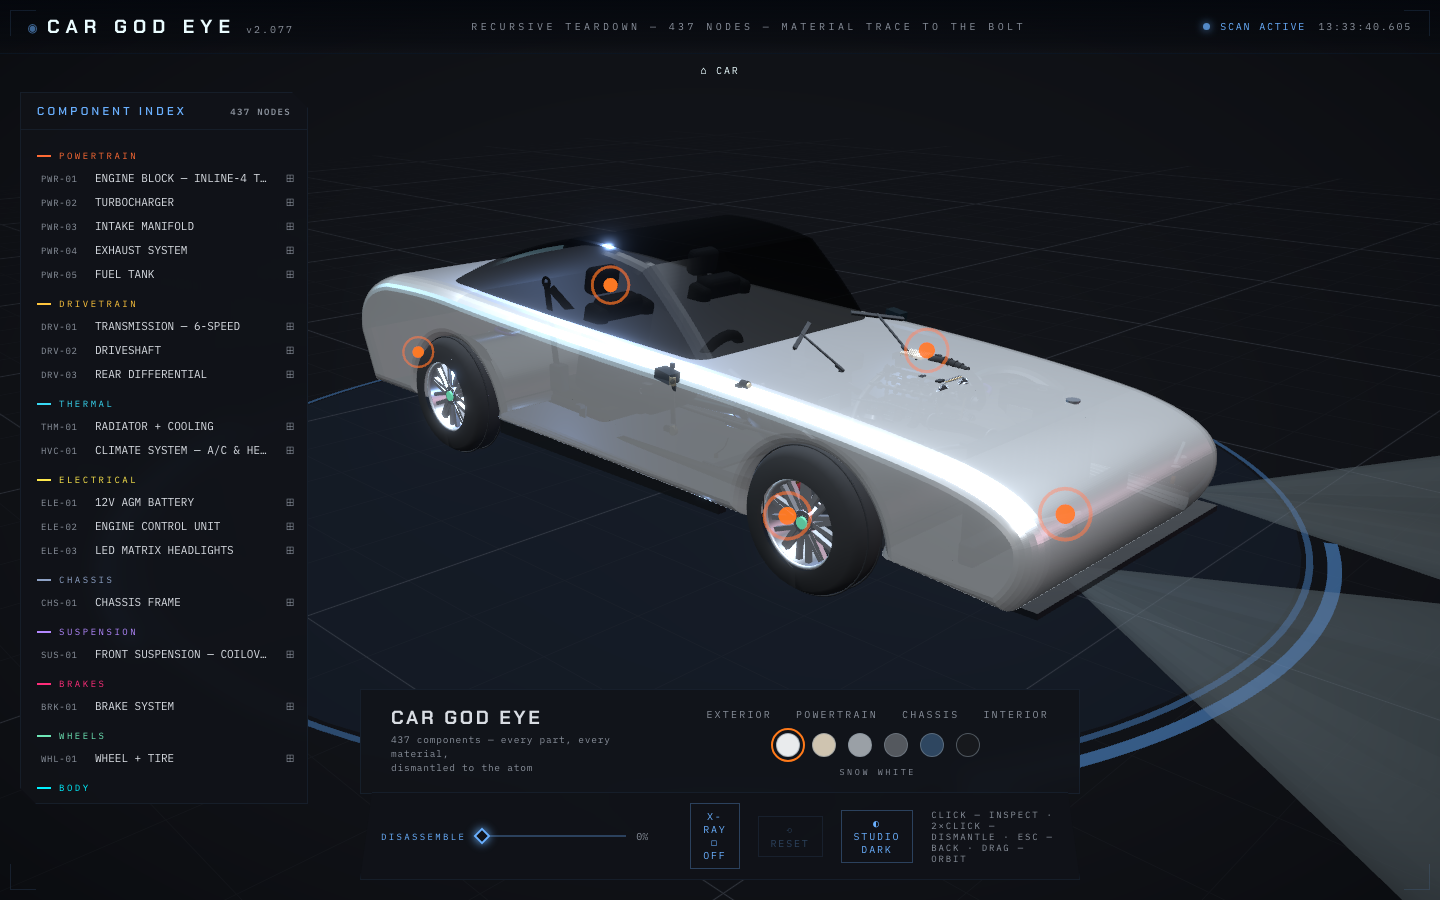
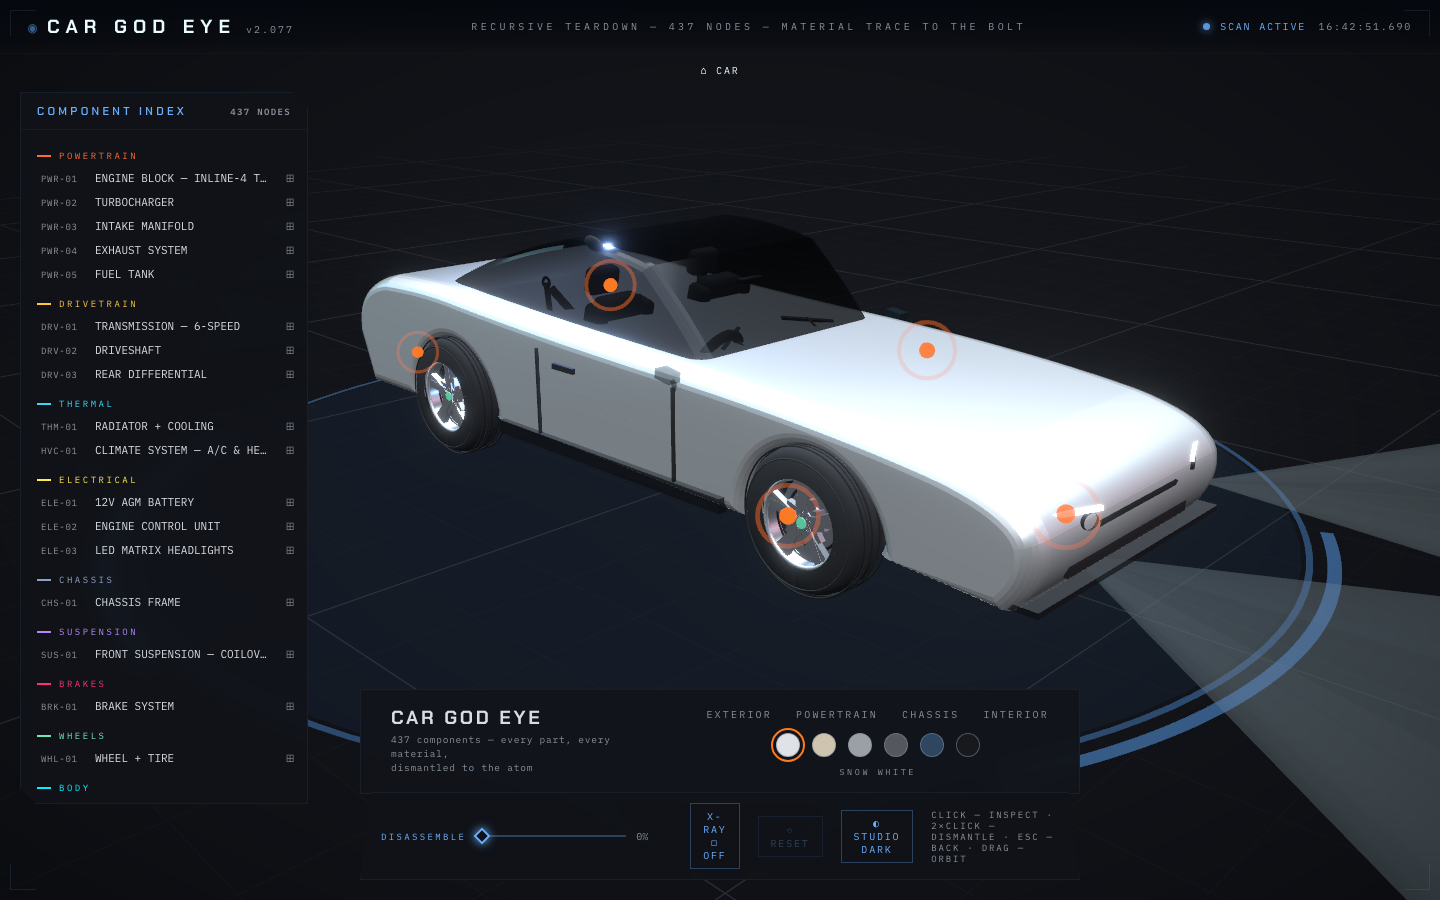
Detail pass, outside to inside: lamps, face, cabin, satin paint
- Headlights rebuilt as integrated lamps: flush smoked lens blade, glowing
  DRL signature, sunken twin projectors, amber chip — pushed proud of the
  nose skin (the extrude bevel had swallowed the old pods entirely)
- Cabin visible through the glass: dash + pad, driver cluster and portrait
  touchscreen glows, console bridge, shifter puck, rear-view mirror pod
- Paint: satin finish (rough 0.44, damped env) — snow white no longer
  blows out under the dark-studio bloom; SNOW toned to #dfe3e7
- DRL trimmed to stay inside the corner wrap

diff --git a/src/scene/CarModel.tsx b/src/scene/CarModel.tsx
@@ -530,40 +530,35 @@ function Headlights() {
   return (
     <PartGroup id="headlights" explode={[1.1, 0.35, 0]}>
       {[0.54, -0.54].map((z) => (
-        <group key={z} position={[2.33, 0.51, z]} rotation={[0, -Math.sign(z) * 0.32, 0]}>
-          {/* smoked housing */}
-          <RBox args={[0.07, 0.1, 0.34]} radius={0.02} smoothness={3}>
-            <Mat color="#0a0e14" e={0.03} metal={0.3} rough={0.3} opacity={0.65} depthWrite={false} />
+        <group key={z} position={[2.41, 0.575, z]} rotation={[0, -Math.sign(z) * 0.38, 0]}>
+          {/* flush smoked lens blade — the lamp is IN the body, not on it */}
+          <RBox args={[0.04, 0.1, 0.44]} radius={0.018} smoothness={3}>
+            <Mat color="#0a0e14" e={0.04} metal={0.4} rough={0.15} opacity={0.8} depthWrite={false} />
           </RBox>
-          {/* twin projector units */}
-          {[-0.08, 0.07].map((dz, i) => (
-            <group key={dz} position={[0.03, 0, dz]} rotation={[0, Math.PI / 2, 0]}>
-              {/* bezel */}
+          {/* DRL light blade glowing across the lens */}
+          <mesh position={[0.016, 0.026, 0]}>
+            <boxGeometry args={[0.018, 0.02, 0.33]} />
+            <Mat color="#e8f8ff" e={2.8} metal={0} />
+          </mesh>
+          {/* twin projector faces sunk behind the lens */}
+          {[-0.11, 0.07].map((dz, i) => (
+            <group key={dz} position={[0.02, -0.022, dz]} rotation={[0, 0, -Math.PI / 2]}>
               <mesh>
-                <cylinderGeometry args={[i === 0 ? 0.045 : 0.036, i === 0 ? 0.05 : 0.04, 0.03, 20, 1, true]} />
-                <PMat color="#1a1e26" rough={0.4} side={THREE.DoubleSide} />
+                <cylinderGeometry
+                  args={[i === 0 ? 0.036 : 0.028, i === 0 ? 0.04 : 0.032, 0.018, 20, 1, true]}
+                />
+                <PMat color="#161a21" rough={0.4} side={THREE.DoubleSide} />
               </mesh>
-              {/* glass dome */}
-              <mesh position={[0, 0.012, 0]}>
-                <sphereGeometry args={[i === 0 ? 0.04 : 0.032, 18, 10, 0, Math.PI * 2, 0, Math.PI / 2]} />
-                <Mat color="#cfe9ff" e={0.1} metal={0} rough={0.05} opacity={0.35} depthWrite={false} />
-              </mesh>
-              {/* emitter */}
-              <mesh position={[0, 0.004, 0]}>
-                <cylinderGeometry args={[i === 0 ? 0.028 : 0.022, i === 0 ? 0.028 : 0.022, 0.008, 16]} />
-                <Mat color="#eefaff" e={2.2} metal={0} rough={0.3} />
+              <mesh position={[0, 0.006, 0]} rotation={[Math.PI / 2, 0, 0]}>
+                <circleGeometry args={[i === 0 ? 0.03 : 0.023, 18]} />
+                <Mat color="#eefaff" e={1.8} metal={0} />
               </mesh>
             </group>
           ))}
-          {/* DRL strip along the top edge */}
-          <mesh position={[0.032, 0.052, 0]} rotation={[0, 0, -0.06]}>
-            <boxGeometry args={[0.012, 0.012, 0.3]} />
-            <Mat color="#dff6ff" e={1.6} metal={0} />
-          </mesh>
-          {/* turn signal */}
-          <mesh position={[0.03, -0.035, -Math.sign(z) * 0.13]}>
-            <boxGeometry args={[0.015, 0.02, 0.05]} />
-            <Mat color="#ffb347" e={0.7} metal={0} />
+          {/* amber signal chip, outboard lower corner */}
+          <mesh position={[0.016, -0.034, Math.sign(z) * 0.165]}>
+            <boxGeometry args={[0.014, 0.018, 0.055]} />
+            <Mat color="#ffb347" e={0.9} metal={0} />
           </mesh>
           {/* beam cone */}
           <mesh position={[1.15, -0.06, 0]} rotation={[0, 0, Math.PI / 2 + 0.06]}>
@@ -602,8 +597,9 @@ function BodyShell() {
       s.userData.baseE = showroom ? 0.02 : 0.06
       s.color.lerp(showroom ? tint : HOLO_SHELL, k)
       s.emissive.lerp(showroom ? tint : HOLO_SHELL_E, k)
-      s.metalness += ((showroom ? 0.65 : 0.3) - s.metalness) * k
-      s.roughness += ((showroom ? 0.3 : 0.18) - s.roughness) * k
+      s.metalness += ((showroom ? 0.6 : 0.3) - s.metalness) * k
+      s.roughness += ((showroom ? 0.44 : 0.18) - s.roughness) * k
+      s.envMapIntensity = showroom ? 0.58 : 1
       s.depthWrite = showroom
     }
     const g = glassMat.current
@@ -749,11 +745,11 @@ function BodyShell() {
         </group>
       ))}
       {/* front sensor panel (SmartZone) + lower intake */}
-      <mesh renderOrder={11} position={[2.36, 0.5, 0]} rotation={[0, 0, -0.35]}>
+      <mesh renderOrder={11} position={[2.44, 0.47, 0]} rotation={[0, 0, -0.35]}>
         <boxGeometry args={[0.016, 0.1, 0.66]} />
         <Mat color="#0a0d12" e={0.04} metal={0.5} rough={0.15} opacity={0.95} depthWrite={false} />
       </mesh>
-      <mesh renderOrder={11} position={[2.35, 0.345, 0]}>
+      <mesh renderOrder={11} position={[2.425, 0.345, 0]}>
         <boxGeometry args={[0.02, 0.06, 1.02]} />
         <Mat color="#07090c" e={0.03} metal={0.2} rough={0.7} opacity={0.95} depthWrite={false} />
       </mesh>
@@ -830,6 +826,45 @@ function Seats() {
         </group>
       ))}
     </PartGroup>
+  )
+}
+
+/** cabin context visible through the smoked glass: dash, screens, console.
+ *  Pure decor (Ghost) — the interactive nodes stay seats/steering/safety. */
+function CabinDecor() {
+  return (
+    <Ghost>
+      {/* dash slab, slightly wrapped toward the driver */}
+      <RBox args={[0.3, 0.11, 1.18]} radius={0.035} smoothness={3} position={[0.4, 0.715, 0]}>
+        <Mat color="#15181d" e={0.03} metal={0.1} rough={0.7} opacity={0.98} />
+      </RBox>
+      {/* soft top pad */}
+      <RBox args={[0.24, 0.035, 1.14]} radius={0.016} smoothness={2} position={[0.38, 0.785, 0]}>
+        <Mat color="#101317" e={0.02} metal={0.05} rough={0.9} opacity={0.98} />
+      </RBox>
+      {/* driver cluster screen */}
+      <mesh position={[0.3, 0.825, 0.38]} rotation={[0, 0, -0.12]}>
+        <boxGeometry args={[0.014, 0.075, 0.24]} />
+        <Mat color="#bfe6ff" e={0.9} metal={0} rough={0.3} />
+      </mesh>
+      {/* portrait center touchscreen */}
+      <mesh position={[0.3, 0.78, 0.02]} rotation={[0, 0, -0.1]}>
+        <boxGeometry args={[0.014, 0.17, 0.115]} />
+        <Mat color="#9fd4ff" e={0.65} metal={0} rough={0.3} />
+      </mesh>
+      {/* center console bridge + shifter puck */}
+      <RBox args={[0.6, 0.1, 0.2]} radius={0.03} smoothness={2} position={[-0.02, 0.56, 0]}>
+        <Mat color="#15181d" e={0.03} metal={0.15} rough={0.6} opacity={0.98} />
+      </RBox>
+      <mesh position={[0.1, 0.625, 0]} rotation={[Math.PI / 2, 0, 0]}>
+        <cylinderGeometry args={[0.035, 0.045, 0.03, 18]} />
+        <Mat color="#20242b" e={0.05} metal={0.6} rough={0.3} />
+      </mesh>
+      {/* rear-view mirror pod on the windshield header */}
+      <RBox args={[0.05, 0.03, 0.16]} radius={0.01} smoothness={2} position={[0.22, 1.12, 0]}>
+        <Mat color="#0c0f13" e={0.02} metal={0.2} rough={0.5} opacity={0.98} />
+      </RBox>
+    </Ghost>
   )
 }
 
@@ -969,6 +1004,7 @@ export function CarModel() {
       <EcuMini />
       <Headlights />
       <Seats />
+      <CabinDecor />
       <SteeringMini />
       <SafetyMini />
       <BodyMechMini />

diff --git a/src/theme.ts b/src/theme.ts
@@ -101,7 +101,7 @@ export interface Paint {
 
 /** solid body colors for the root showroom view (configurator-style swatches) */
 export const PAINTS: Paint[] = [
-  { id: 'snow', name: 'SNOW WHITE', hex: '#e9ebed' },
+  { id: 'snow', name: 'SNOW WHITE', hex: '#dfe3e7' },
   { id: 'sand', name: 'DESERT SAND', hex: '#cfc4b0' },
   { id: 'magnesium', name: 'MAGNESIUM', hex: '#9aa0a6' },
   { id: 'thunder', name: 'THUNDER GREY', hex: '#54585e' },
